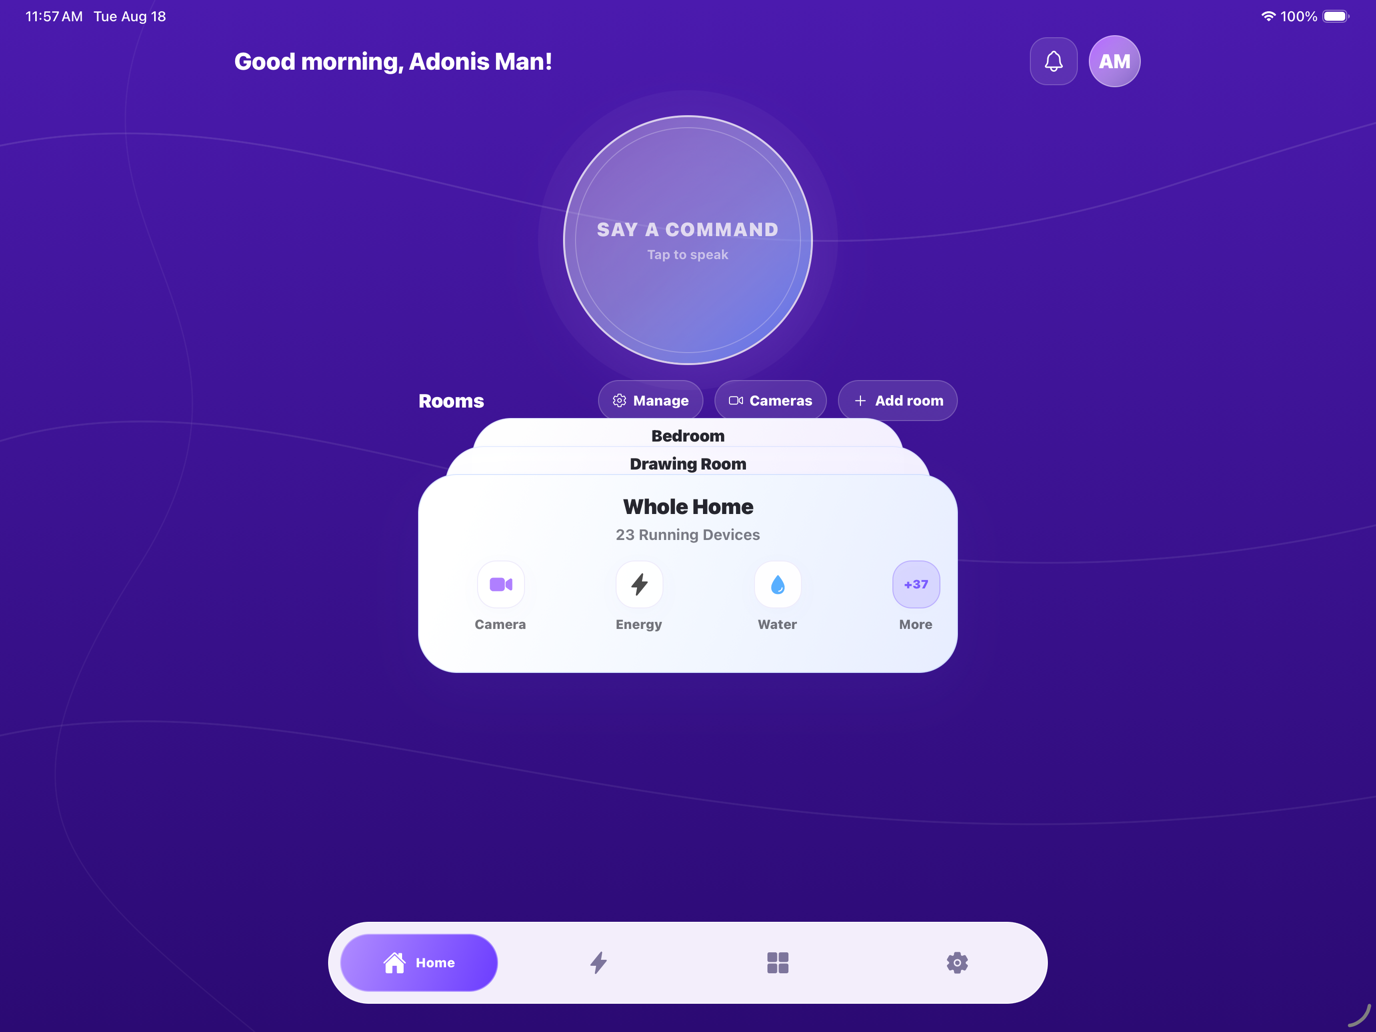
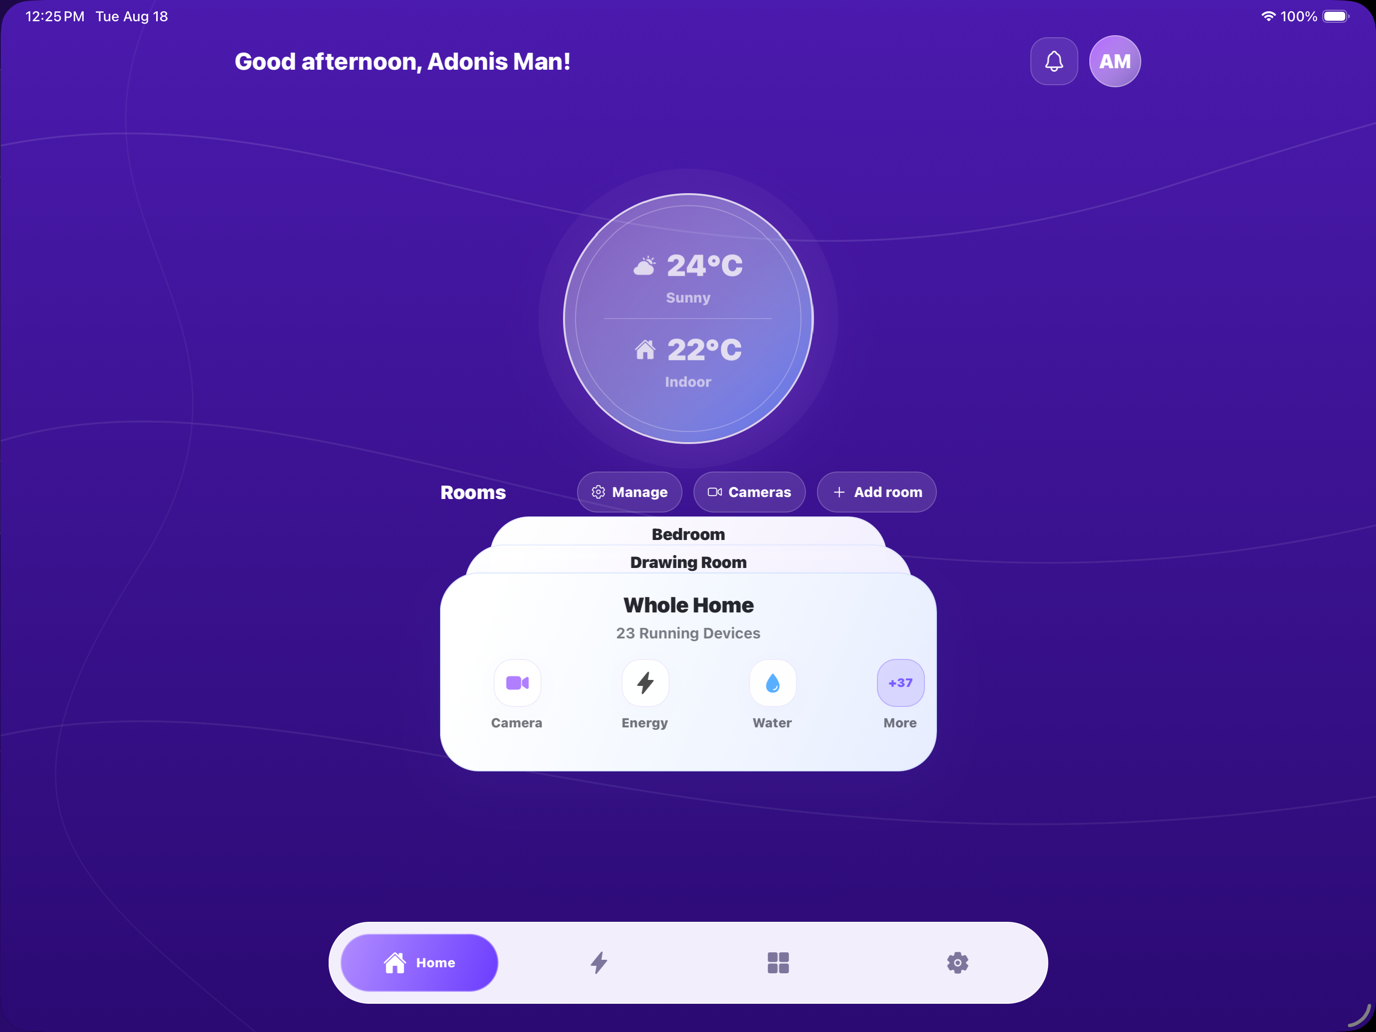
Refine tablet home proportions

diff --git a/src/screens/HomeScreen.tsx b/src/screens/HomeScreen.tsx
@@ -51,6 +51,8 @@ export default function HomeScreen() {
   const heroGap = Math.round((isTablet ? 28 : 16) * scale);
   const contentInset = Math.round(gutter);
   const isTabletLandscape = isTablet && isLandscape;
+  const isShortTabletLandscape = isTabletLandscape && height < 900;
+  const isVeryShortTabletLandscape = isTabletLandscape && height < 800;
   const headerPadTop = isLandscape
     ? Math.round((isTablet ? 26 : 18) * scale)
     : topPad;
@@ -58,9 +60,22 @@ export default function HomeScreen() {
   // so the room deck reads as a continuation of the orb instead of a sidebar.
   const landscapeGap = Math.round((isTablet ? 26 : 16) * scale);
   const landscapeOrbWidth = Math.round((isTablet ? 270 : 220) * scale);
+  const tabletLandscapeHeroGap = Math.round(
+    (isVeryShortTabletLandscape ? 8 : isShortTabletLandscape ? 14 : 24) *
+      scale,
+  );
+  const tabletLandscapeDeckGap = Math.round(
+    (isVeryShortTabletLandscape ? 8 : isShortTabletLandscape ? 14 : 24) *
+      scale,
+  );
+  const tabletLandscapeBottomLift = Math.round(
+    (isVeryShortTabletLandscape ? 6 : isShortTabletLandscape ? 12 : 34) *
+      scale,
+  );
   const landscapeCarouselWidth = isTabletLandscape
     ? Math.min(
-        Math.round(500 * scale),
+        Math.round(460 * scale),
+        Math.round(contentWidth * 0.52),
         contentWidth - contentInset * 2,
       )
     : Math.max(
@@ -196,11 +211,13 @@ export default function HomeScreen() {
       gap: landscapeGap,
     },
     isTabletLandscape && {
-      paddingBottom: Math.round(18 * scale),
+      // Visually center the combined orb/deck composition in the space above
+      // the persistent tab bar, with a slight upward bias for optical balance.
+      paddingBottom: tabletLandscapeBottomLift,
       flexDirection: "column",
       alignItems: "center",
-      justifyContent: "flex-start",
-      gap: Math.round(12 * scale),
+      justifyContent: "center",
+      gap: tabletLandscapeHeroGap,
     },
   ];
   const heroOrbWrapStyle: StyleProp<ViewStyle> = [
@@ -227,7 +244,11 @@ export default function HomeScreen() {
     styles.roomsCarouselWrap,
     {
       marginTop: Math.round(
-        (isTablet ? (isLandscape ? 18 : 44) : isLandscape ? 12 : 30) * scale,
+        (isTablet
+          ? isLandscape
+            ? tabletLandscapeDeckGap
+            : 44 * scale
+          : (isLandscape ? 12 : 30) * scale),
       ),
     },
   ];
@@ -911,7 +932,10 @@ export default function HomeScreen() {
                   </View>
                 </View>
 
-                <View style={roomsCarouselWrapStyle}>
+                <View
+                  testID="home-rooms-carousel-wrap"
+                  style={roomsCarouselWrapStyle}
+                >
                   <RoomCarousel
                     rooms={rooms}
                     devices={devicesAll}

diff --git a/src/screens/__tests__/HomeScreen.test.tsx b/src/screens/__tests__/HomeScreen.test.tsx
@@ -237,13 +237,53 @@ describe("HomeScreen", () => {
     const roomsStyle = StyleSheet.flatten(
       tree.root.findByProps({ testID: "home-rooms-section" }).props.style,
     );
+    const carouselWrapStyle = StyleSheet.flatten(
+      tree.root.findByProps({ testID: "home-rooms-carousel-wrap" }).props.style,
+    );
 
     expect(heroStyle.flexDirection).toBe("column");
     expect(heroStyle.alignItems).toBe("center");
+    expect(heroStyle.justifyContent).toBe("center");
+    expect(heroStyle.gap).toBeGreaterThanOrEqual(24);
+    expect(heroStyle.paddingBottom).toBeGreaterThan(0);
     expect(orbStyle.width).toBe("100%");
     expect(roomsStyle.alignSelf).toBe("center");
     expect(roomsStyle.width).toBeGreaterThan(0);
-    expect(roomsStyle.width).toBeLessThan(mockLayout.contentWidth);
+    expect(roomsStyle.width).toBeLessThanOrEqual(mockLayout.contentWidth * 0.52);
+    expect(carouselWrapStyle.marginTop).toBeGreaterThanOrEqual(24);
+    act(() => {
+      tree.unmount();
+    });
+  });
+
+  it("tightens vertical rhythm on shorter tablet landscape viewports", () => {
+    Object.assign(mockLayout, {
+      width: 1180,
+      height: 820,
+      isLandscape: true,
+      isTablet: true,
+      contentWidth: 980,
+      gutter: 36,
+      topPad: 56,
+      blockGap: 20,
+      scale: 1.08,
+    });
+    let tree: ReactTestRenderer;
+    act(() => {
+      tree = renderer.create(<HomeScreen />);
+    });
+
+    const heroStyle = StyleSheet.flatten(
+      tree.root.findByProps({ testID: "home-hero-stack" }).props.style,
+    );
+    const carouselWrapStyle = StyleSheet.flatten(
+      tree.root.findByProps({ testID: "home-rooms-carousel-wrap" }).props.style,
+    );
+
+    expect(heroStyle.justifyContent).toBe("center");
+    expect(heroStyle.gap).toBeLessThanOrEqual(16);
+    expect(heroStyle.paddingBottom).toBeLessThanOrEqual(14);
+    expect(carouselWrapStyle.marginTop).toBeLessThanOrEqual(16);
     act(() => {
       tree.unmount();
     });
